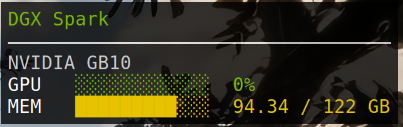
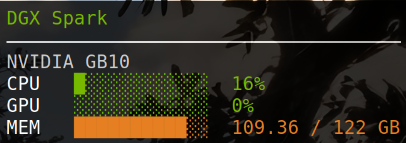
Add CPU utilization metric (CPU / GPU / MEM order)
Makes it easy to spot model inference misconfigured to run on CPU
instead of GPU — high CPU + low GPU is the tell. Uses vmstat for a
1-second CPU idle sample over the existing SSH ControlMaster connection.

diff --git a/README.md b/README.md
@@ -1,6 +1,6 @@
 # dgx-conky
 
-A lightweight desktop widget that displays live GPU utilization and system memory stats from a remote [NVIDIA DGX Spark](https://www.nvidia.com/en-us/products/workstations/dgx-spark/) over SSH.
+A lightweight desktop widget that displays live CPU utilization, GPU utilization, and system memory stats from a remote [NVIDIA DGX Spark](https://www.nvidia.com/en-us/products/workstations/dgx-spark/) over SSH.
 
 Built on [Conky](https://github.com/brndnmtthws/conky), it renders as a transparent overlay pinned to the desktop — always visible, never in the way.
 
@@ -8,9 +8,11 @@ Built on [Conky](https://github.com/brndnmtthws/conky), it renders as a transpar
 
 ## How it works
 
-A shell script (`dgx_metrics.sh`) opens a persistent SSH `ControlMaster` connection to the DGX and polls it every 3 seconds, querying `nvidia-smi` for GPU utilization and `/proc/meminfo` for system RAM. Results are formatted as Conky markup with color-coded progress bars and fed to the widget via `execpi`. The ControlMaster socket is reused across polls so there is no per-refresh SSH handshake overhead.
+A shell script (`dgx_metrics.sh`) opens a persistent SSH `ControlMaster` connection to the DGX and polls it every 3 seconds. Each poll queries `nvidia-smi` for GPU utilization, `/proc/meminfo` for system RAM, and `vmstat` for CPU utilization. Results are formatted as Conky markup with color-coded progress bars in **CPU / GPU / MEM** order and fed to the widget via `execpi`. The ControlMaster socket is reused across polls so there is no per-refresh SSH handshake overhead.
 
-Color thresholds:
+The CPU metric is useful for catching misconfigured model inference — a high CPU bar alongside a low GPU bar is a strong signal that a model is running on CPU instead of GPU.
+
+Color thresholds (applied to all three metrics):
 
 | Usage | Color |
 |---|---|